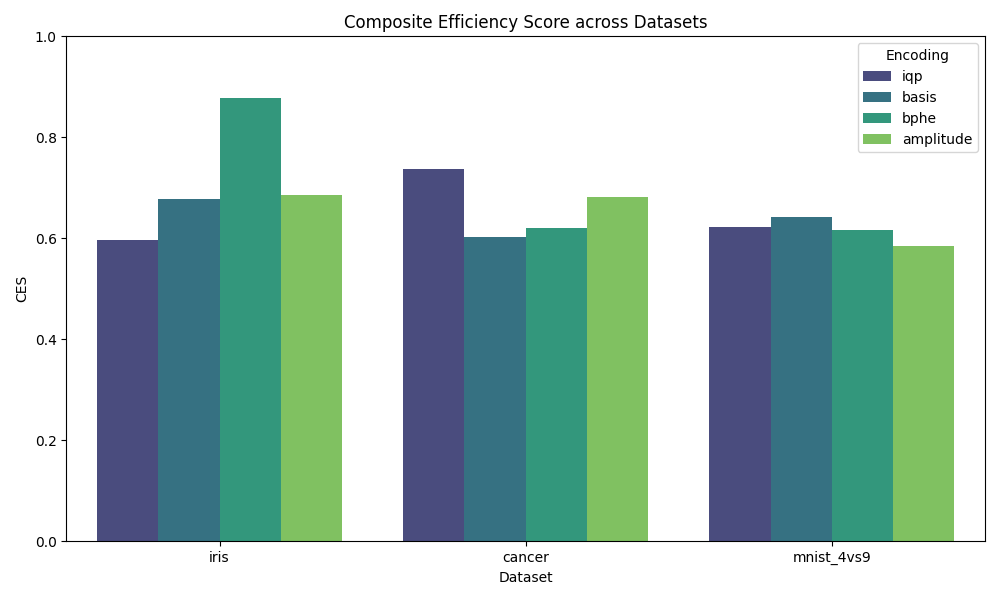
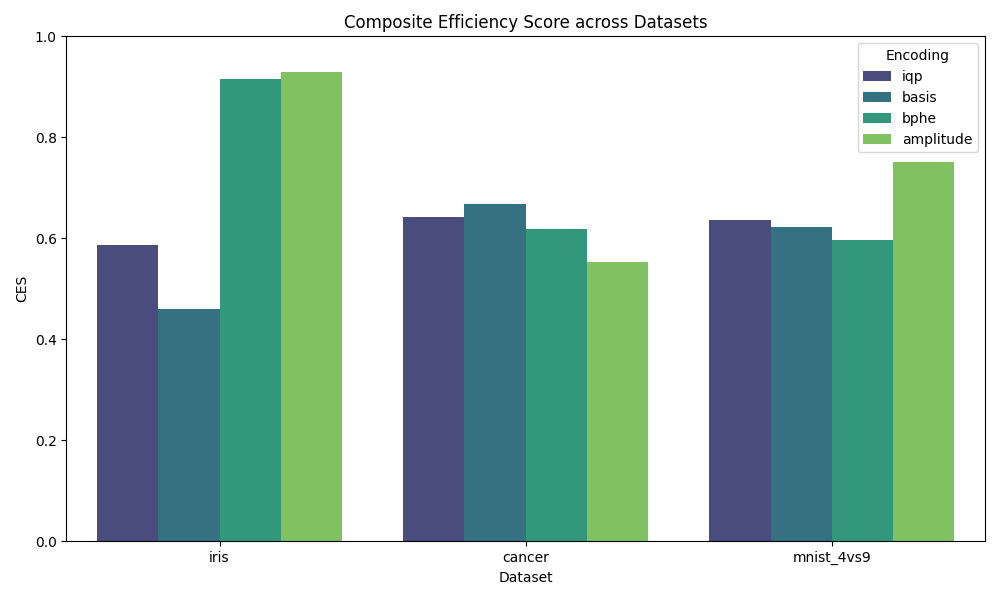
added precision recall and f1 score

diff --git a/models/vqc.py b/models/vqc.py
@@ -28,55 +28,52 @@ def create_circuit(encoding_fn, n_qubits=8, n_layers=5):
 
 # ==================== TRAINING & EVALUATION ====================
 # Inside train_and_evaluate function – replace the entire function with this version
-def train_and_evaluate(dataset_name, encoding_name, encoding_fn, n_qubits=8, n_layers=5, epochs=120, batch_size=32):
-    X_train, X_test, y_train, y_test = load_dataset(dataset_name, n_components=n_qubits)
+def train_and_evaluate(dataset_name, encoding_name, encoding_fn,
+                       n_qubits=8, n_layers=5, epochs=150, batch_size=32):
+    from utils.data_loader import load_dataset
+    from sklearn.metrics import accuracy_score, roc_auc_score, \
+                                 precision_score, recall_score, f1_score
 
+    X_train, X_test, y_train, y_test = load_dataset(dataset_name, n_components=n_qubits)
     circuit = create_circuit(encoding_fn, n_qubits, n_layers)
 
-    weights = np.random.uniform(0, 2 * np.pi, size=(n_layers, 2 * n_qubits))
-    opt = qml.AdamOptimizer(stepsize=0.05)
+    weights = np.random.uniform(0, 2 * np.pi, (n_layers, 2 * n_qubits))
+    opt = qml.AdamOptimizer(stepsize=0.06)
 
-    # Map labels {0,1} → {-1,+1} for PauliZ expectation
     y_train_pm = 2 * y_train - 1
-    y_test_pm  = 2 * y_test - 1
 
-    # Proper cost function with mini-batch sampling
-    def cost_fn(weights):
-        batch_indices = random.sample(range(len(X_train)), min(batch_size, len(X_train)))
-        total = 0.0
-        for i in batch_indices:
-            pred = circuit(X_train[i], weights)
-            total += (pred - y_train_pm[i]) ** 2
-        return total / len(batch_indices)
+    def cost_fn(w):
+        idx = random.sample(range(len(X_train)), min(batch_size, len(X_train)))
+        return np.mean([(circuit(X_train[i], w) - y_train_pm[i]) ** 2 for i in idx])
 
-    best_weights = weights.copy()
     best_auc = 0.0
+    best_weights = weights.copy()
 
     for epoch in range(epochs):
         opt.step(cost_fn, weights)
-
-        # Periodic evaluation on full test set
-        if epoch % 20 == 0 or epoch == epochs-1:
+        if epoch % 30 == 0 or epoch == epochs - 1:
             preds = np.array([(circuit(x, weights) + 1) / 2 for x in X_test])
-            current_auc = roc_auc_score(y_test, preds)
-            if current_auc > best_auc:
-                best_auc = current_auc
+            auc = roc_auc_score(y_test, preds)
+            if auc > best_auc:
+                best_auc = auc
                 best_weights = weights.copy()
 
-    # Final evaluation with best weights
-    preds = np.array([(circuit(x, best_weights) + 1) / 2 for x in X_test])
-    acc = accuracy_score(y_test, (preds > 0.5).astype(int))
-    auc = roc_auc_score(y_test, preds)
+    # Final predictions with best weights
+    probs = np.array([(circuit(x, best_weights) + 1) / 2 for x in X_test])
+    preds = (probs > 0.5).astype(int)
 
-    # === Accurate resource profiling using modern PennyLane API ===
+    # Classification metrics (all datasets are binary → pos_label=1)
+    acc   = accuracy_score(y_test, preds)
+    auc   = roc_auc_score(y_test, probs)
+    prec  = precision_score(y_test, preds, pos_label=1, zero_division=0)
+    rec   = recall_score(y_test, preds, pos_label=1, zero_division=0)
+    f1    = f1_score(y_test, preds, pos_label=1, zero_division=0)
+
+    # Resource profiling
     specs = qml.specs(circuit)(X_test[0], best_weights)
-    res = specs["resources"]                     # Resources object
+    res = specs["resources"]
     depth = res.depth
-    num_wires = res.num_wires
-    total_gates = sum(res.gate_types.values())   # counts all gates (including encoding)
+    gates = sum(res.gate_types.values())
+    resource_cost = np.clip((n_qubits/32 + depth/250 + gates/2500)/3, 0, 1)
 
-    # Normalised resource cost ∈ [0,1] (empirically tuned for 4–16 qubit VQCs)
-    resource_cost = (num_wires / 32.0 + depth / 200.0 + total_gates / 2000.0) / 3.0
-    resource_cost = np.clip(resource_cost, 0.0, 1.0)
-
-    return acc, auc, resource_cost
+    return acc, auc, prec, rec, f1, resource_cost

diff --git a/benchmark.py b/benchmark.py
@@ -28,17 +28,21 @@ for ds in datasets:
     print(f"\n=== Dataset: {ds} (qubits = {n_q}) ===")
     for name, enc_fn in ENCODINGS.items():
         print(f"  Running {name}...")
-        acc, auc, res_cost = train_and_evaluate(ds, name, enc_fn, n_q)
-        ces = composite_efficiency_score(auc, res_cost)
+        acc, auc, prec, rec, f1, rc = train_and_evaluate(ds, name, enc_fn, n_q)
+        ces = composite_efficiency_score(auc, rc)
         results.append({
             "Dataset": ds,
             "Encoding": name,
             "Qubits": n_q,
             "Accuracy": round(acc, 4),
             "AUC": round(auc, 4),
-            "Resource Cost": round(res_cost, 4),
+            "Precision": round(prec, 4),
+            "Recall": round(rec, 4),
+            "F1-Score": round(f1, 4),
+            "ResourceCost": round(rc, 4),
             "CES": round(ces, 4)
         })
+        print(f"  → {name:12} AUC={auc:.4f} F1={f1:.4f} CES={ces:.4f}")
 
 # ==================== PREVIOUS BENCHMARK LOOP (FOR REFERENCE) ====================
 # results = []
